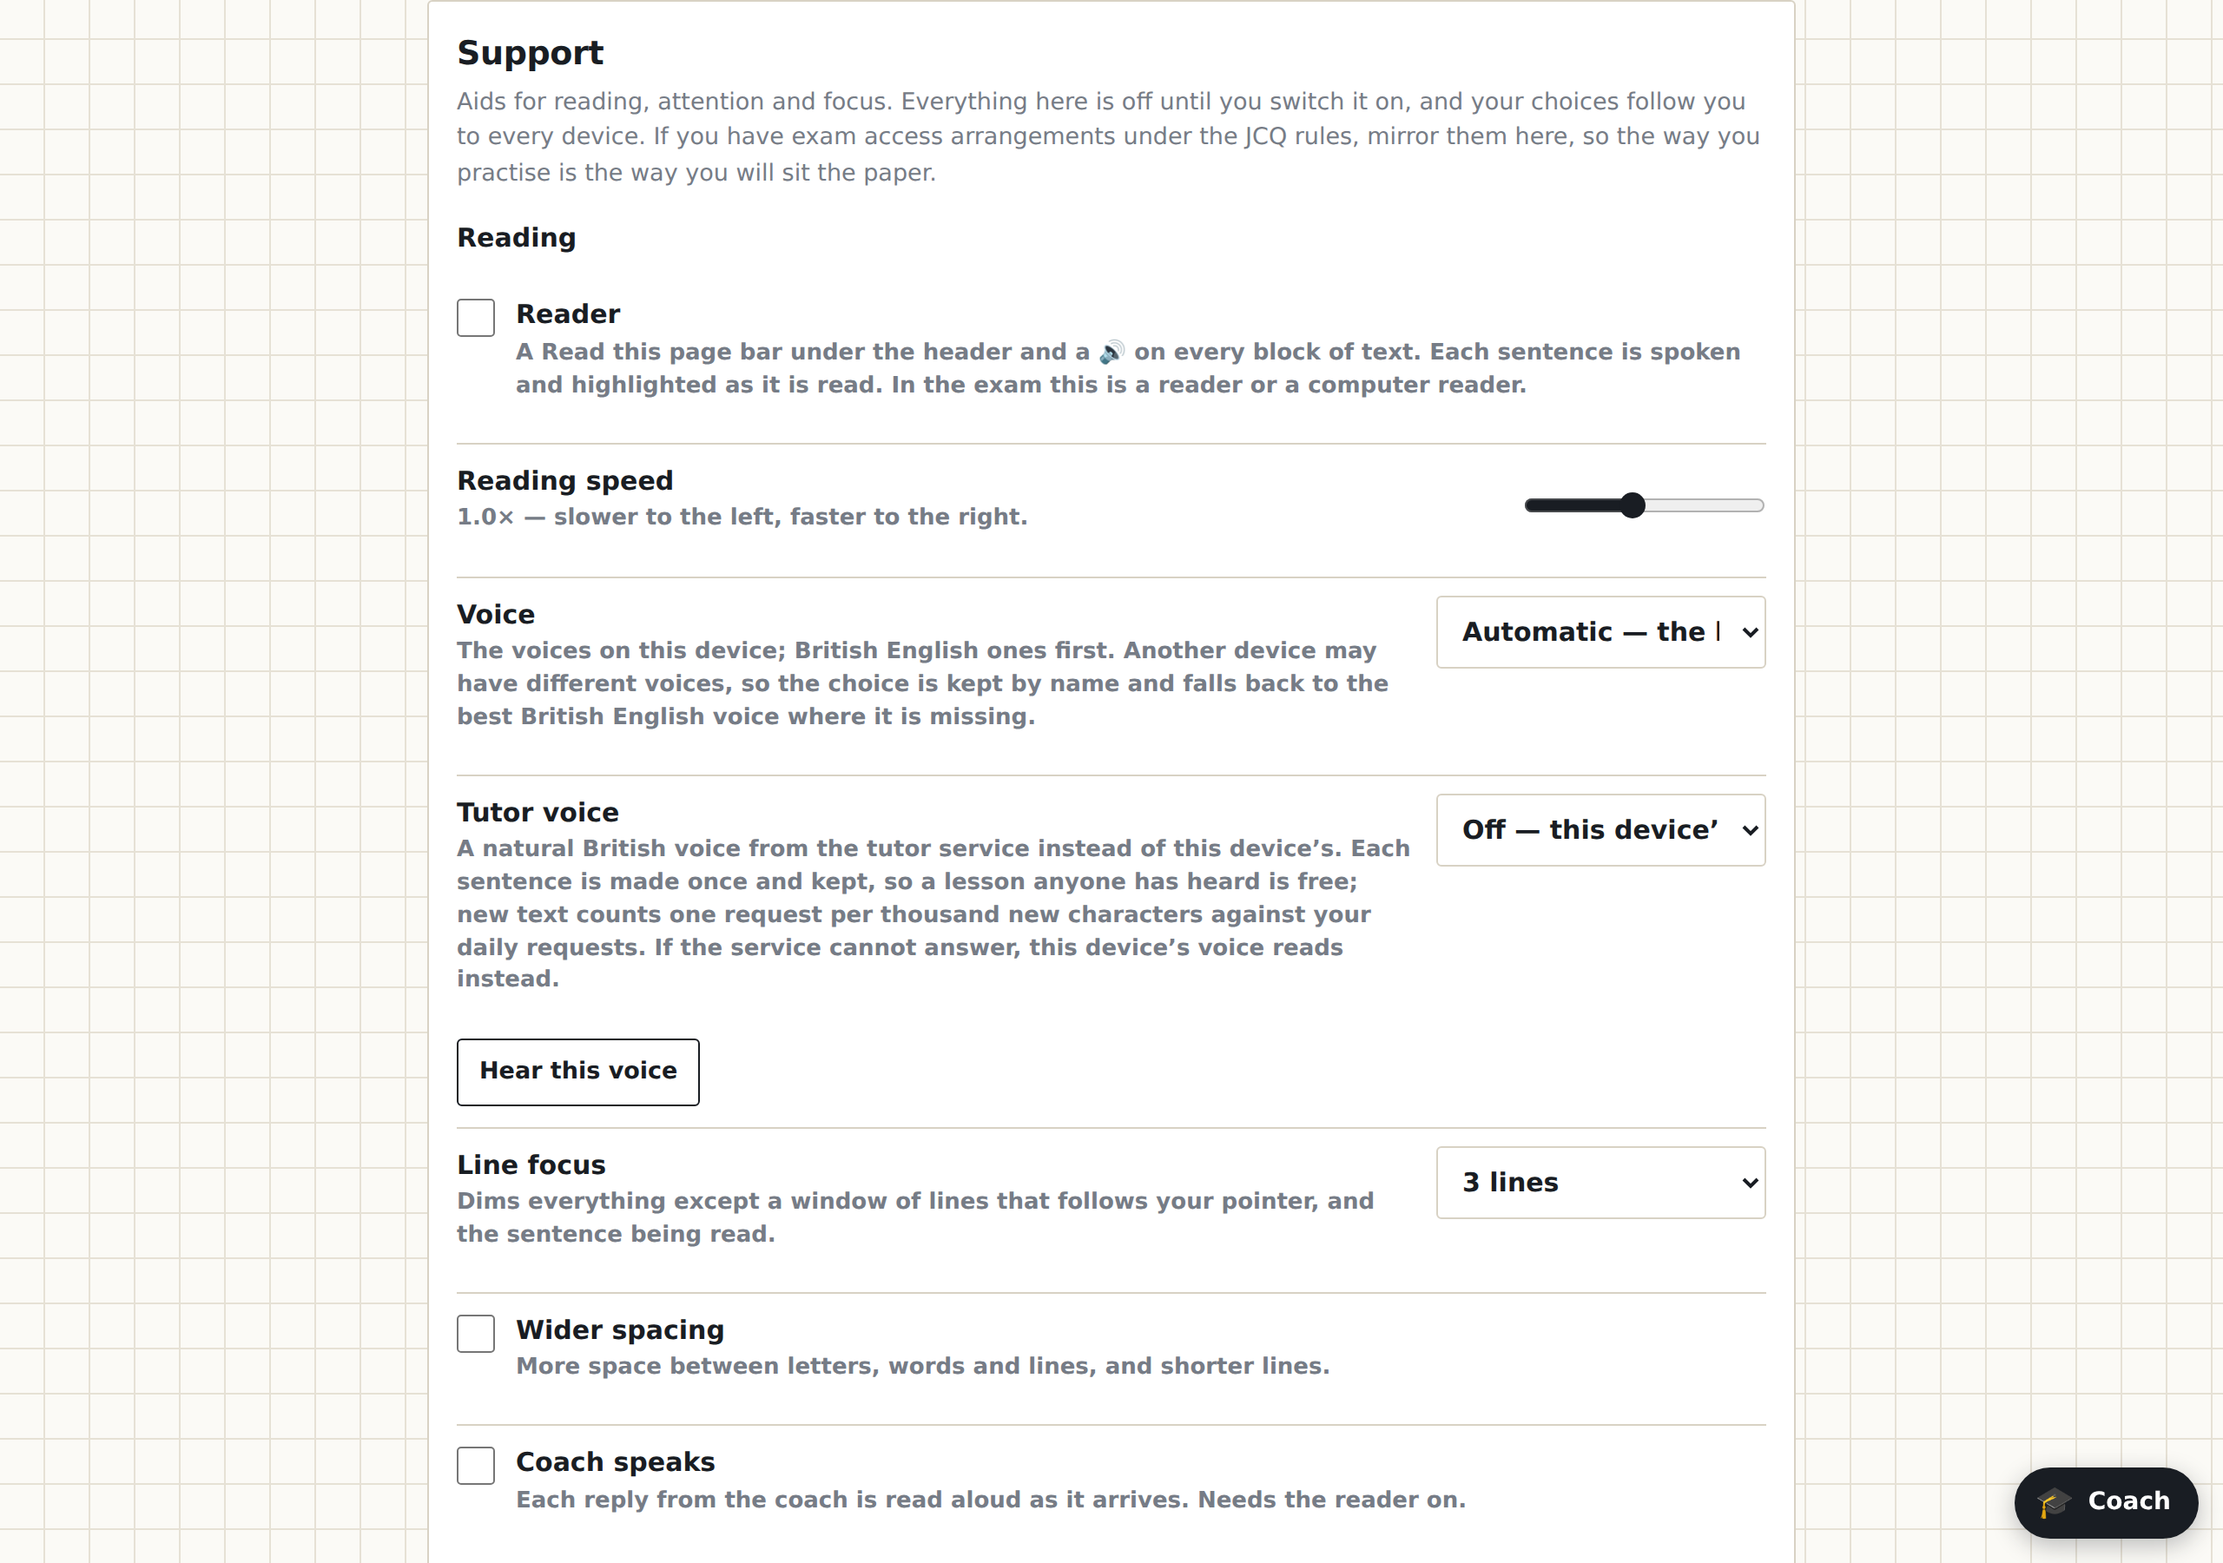
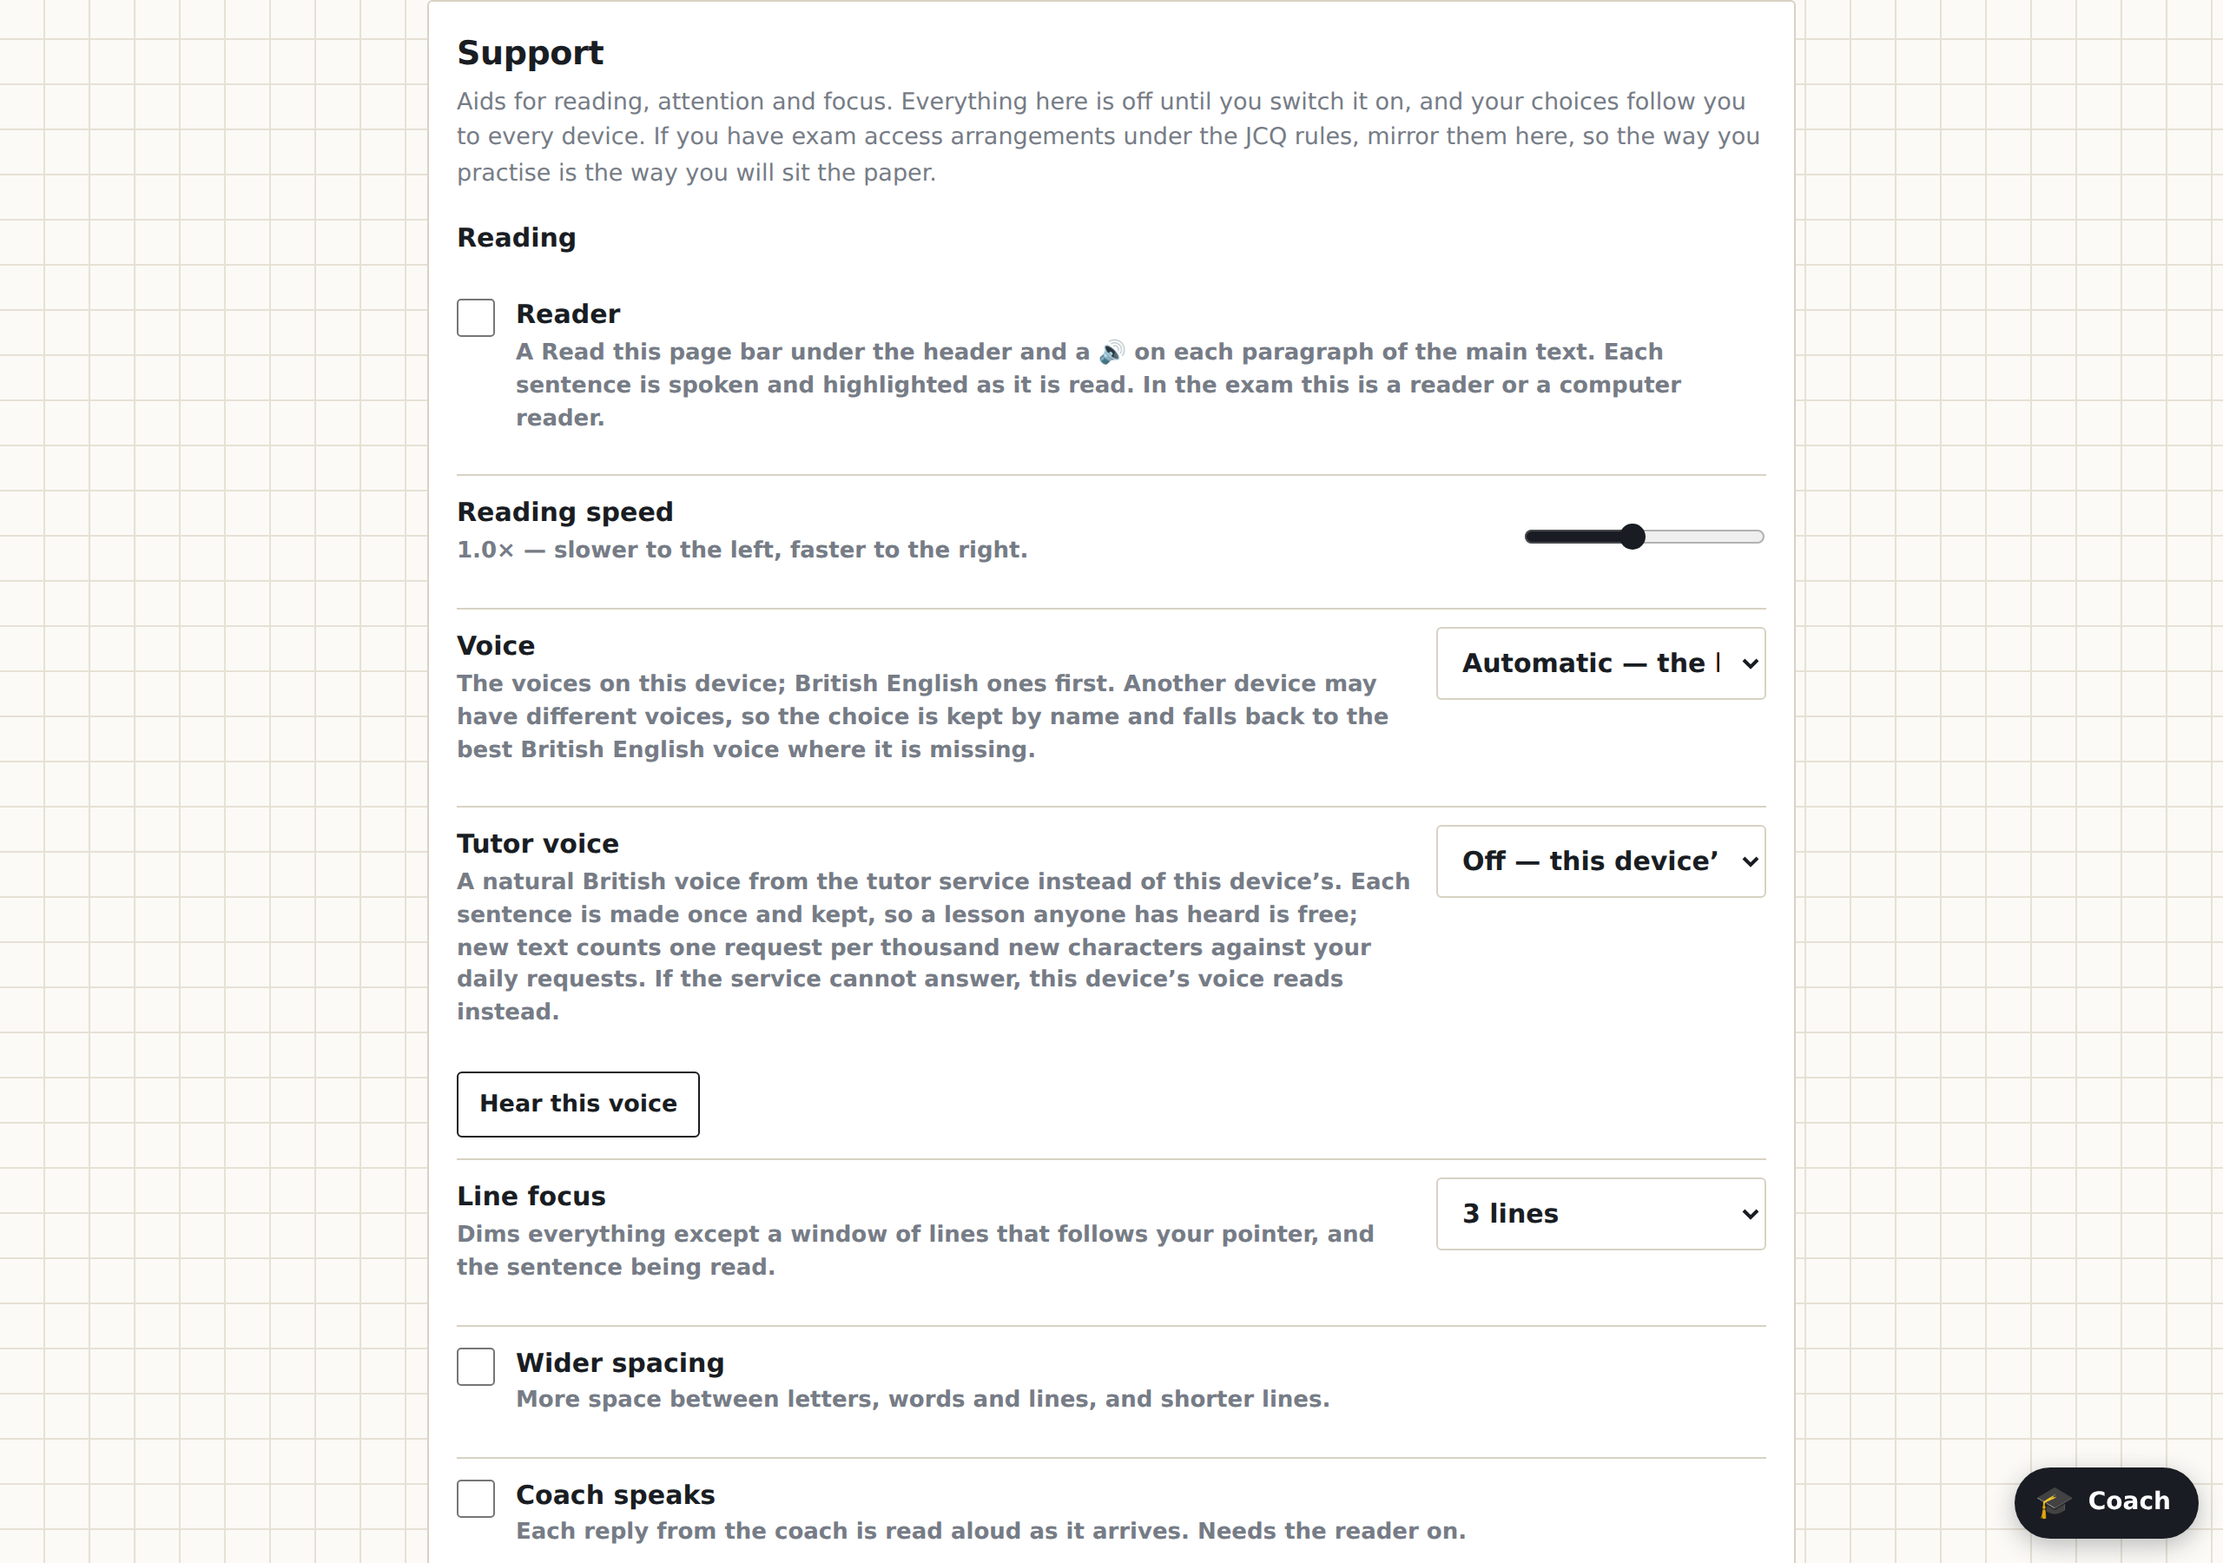
Reader: a speaker only on body paragraphs
The 🔊 buttons now sit only on the main text: not on titles, sub-lines,
captions, the wall or anything shorter than a sentence. Read this page
still reads the page in order.

Claude-Session: https://claude.ai/code/session_01Mh9bnPxQr2jGMgGjiwAVje

diff --git a/src/template.html b/src/template.html
@@ -201,7 +201,10 @@ function pickVoice(){try{if(!speechOk())return null;const vs=speechSynthesis.get
 function readerBlocks(){try{const out=[];const roots=[...document.querySelectorAll('main>section:not(.hide)'),document.getElementById('wall'),document.getElementById('coachPanel')].filter(Boolean);
   for(const r of roots){if(!r.querySelectorAll)continue;for(const el of r.querySelectorAll(READ_SEL)){if(el.closest&&el.closest('svg,.desk,.campusart,.rdb,button,select,textarea,input,.hide,.reader,.chips'))continue;const t=blockText(el);if(t.length<3)continue;if(out.some(x=>x.contains&&x.contains(el)))continue;out.push(el);}}return out;}catch(e){return [];}}
 function blockText(el){return String(el.innerText||el.textContent||'').replace(/🔊/g,'').replace(/\s+/g,' ').trim();}
-function readerDecorate(){if(!S||!sup().reader)return;for(const el of readerBlocks()){try{if(el.querySelector&&el.querySelector(':scope>.rdb'))continue;const b=document.createElement('button');b.className='rdb';b.type='button';b.title='Read this aloud';b.setAttribute('aria-label','Read this aloud');b.textContent='🔊';b.dataset.read='1';el.insertBefore(b,el.firstChild);}catch(e){}}}
+/* a 🔊 only on body text in the centre: no headings, no sub-lines or captions, nothing on the wall, nothing shorter than a sentence */
+const DECORATE_SKIP='h1,h2,h3,h4,.sub,.fine,.prov,.cw,.entry,.formula,.nn,.stitle,.sdetail,.emeta,.nlabel,.bhead,.sign,.plate,label,summary';
+function decorateBlocks(){try{const main=document.querySelector('main');return readerBlocks().filter(el=>{if(!main||!main.contains||!main.contains(el))return false;if(el.matches&&el.matches(DECORATE_SKIP))return false;if(el.closest&&el.closest('.board,.corridor,.roomnav,.qbar,.stations,.chips,.bchips,.ask'))return false;return blockText(el).length>=40;});}catch(e){return [];}}
+function readerDecorate(){if(!S||!sup().reader)return;for(const el of decorateBlocks()){try{if(el.querySelector&&el.querySelector(':scope>.rdb'))continue;const b=document.createElement('button');b.className='rdb';b.type='button';b.title='Read this aloud';b.setAttribute('aria-label','Read this aloud');b.textContent='🔊';b.dataset.read='1';el.insertBefore(b,el.firstChild);}catch(e){}}}
 function readText(text,el){if(!speechOk()&&!tutorVoice())return false;readerStop(false);const sents=splitSentences(String(text||''));if(!sents.length)return false;UI.reader={cur:el||null,queue:sents,i:0,paused:false,speaking:true,words:sents.join(' ').split(/\s+/).length};highlightBlock(el||null);speakNext();renderReader();return true;}
 function speakNext(){const R=UI.reader;if(!R||!R.speaking)return;if(R.i>=R.queue.length){R.speaking=false;highlightSentence(null);logSupport('reader',(R.words||0)/150);if(!readerContinue()){highlightBlock(null);renderReader();}return;}
   const tv=tutorVoice();if(tv){tutorSpeak(R,tv);return;}browserSpeak(R);}
@@ -335,7 +338,7 @@ function renderChunks(){if(view==='campus')renderCampus();if(view==='rooms'&&UI.
 /* ---- the Support panel in the Office ---- */
 function supportPanel(){const sp=sup();const chk=(k,label,desc)=>`<label class="sw"><input type="checkbox" data-sup="${k}" ${sp[k]?'checked':''}><span><b>${label}</b><small>${desc}</small></span></label>`;const sel=(k,label,opts,desc)=>`<label class="sw"><span><b>${label}</b><small>${desc}</small></span><select data-sup="${k}">${opts.map(([v,l])=>`<option value="${v}" ${String(sp[k])===String(v)?'selected':''}>${l}</option>`).join('')}</select></label>`;
   return `<div class="panel" id="supportPanel"><h2>Support</h2><p class="sub">Aids for reading, attention and focus. Everything here is off until you switch it on, and your choices follow you to every device. If you have exam access arrangements under the JCQ rules, mirror them here, so the way you practise is the way you will sit the paper.</p>
-   <h3>Reading</h3>${chk('reader','Reader','A Read this page bar under the header and a 🔊 on every block of text. Each sentence is spoken and highlighted as it is read. In the exam this is a reader or a computer reader.')}
+   <h3>Reading</h3>${chk('reader','Reader','A Read this page bar under the header and a 🔊 on each paragraph of the main text. Each sentence is spoken and highlighted as it is read. In the exam this is a reader or a computer reader.')}
    <label class="sw"><span><b>Reading speed</b><small>${(sp.readerRate||1).toFixed(1)}× — slower to the left, faster to the right.</small></span><input type="range" min="0.7" max="1.4" step="0.1" value="${sp.readerRate||1}" data-sup="readerRate" aria-label="Reading speed"></label>
    ${(()=>{const vs=voiceOptions();const cur=sp.voice||'';const known=!cur||vs.some(v=>v.name===cur);return `<label class="sw"><span><b>Voice</b><small>${vs.length?`The voices on this device; British English ones first. Another device may have different voices, so the choice is kept by name and falls back to the best British English voice where it is missing.`:'This browser has no voices to read with — Chrome, Edge and Safari do.'}</small></span><select data-sup="voice" aria-label="Reading voice"><option value="" ${cur?'':'selected'}>Automatic — the best British English voice here</option>${known?'':`<option value="${esc(cur)}" selected>${esc(cur)} (not on this device)</option>`}${vs.map(v=>`<option value="${esc(v.name)}" ${v.name===cur?'selected':''}>${esc(v.name)}${v.lang?` · ${esc(v.lang)}`:''}</option>`).join('')}</select></label>${(()=>{const g=voiceGuidance();return g?`<p class="fine" style="margin:2px 0 8px">${esc(g)}</p>`:'';})()}<label class="sw"><span><b>Tutor voice</b><small>A natural British voice from the tutor service instead of this device’s. Each sentence is made once and kept, so a lesson anyone has heard is free; new text counts one request per thousand new characters against your daily requests. If the service cannot answer, this device’s voice reads instead.${AUTH_MODE?'':' Needs a signed-in account.'}</small></span><select data-sup="tutorVoice" aria-label="Tutor voice"><option value="" ${sp.tutorVoice?'':'selected'}>Off — this device’s voice</option>${TUTOR_VOICES.map(([v,l])=>`<option value="${v}" ${sp.tutorVoice===v?'selected':''}>${esc(l)}</option>`).join('')}</select></label><button class="act ghost small" id="voiceTry" ${vs.length||sp.tutorVoice?'':'disabled'}>Hear this voice</button>`;})()}
    ${sel('lineFocus','Line focus',[[0,'Off'],[1,'1 line'],[3,'3 lines'],[5,'5 lines']],'Dims everything except a window of lines that follows your pointer, and the sentence being read.')}

diff --git a/scripts/visual-proof.js b/scripts/visual-proof.js
@@ -318,11 +318,11 @@ const server = http.createServer((req, res) => {
   await page.click('#coachClose');
   await page.evaluate(() => { S.setup.support.reader = true; S.setup.support.lineFocus = 3; S.setup.support.spacing = true; applySupport(); renderAll(); });
   await page.click('[data-station="lesson"]'); await page.waitForSelector('#reader #rdPage', { timeout: 5000 }); await page.waitForTimeout(250);
-  must((await page.locator('#v-rooms .rdb').count()) >= 3, 'every block of the lesson has a 🔊');
+  must((await page.locator('#v-rooms .rdb').count()) >= 3 && (await page.locator('#v-rooms h2 .rdb, #v-rooms h3 .rdb, #v-rooms .sub .rdb, #v-rooms .fine .rdb, #wall .rdb').count()) === 0, 'the lesson’s body paragraphs have a 🔊; titles, sub-lines, captions and the wall do not');
   await page.click('#rdPage'); await page.waitForSelector('.rd-cur', { timeout: 5000 }); await page.waitForTimeout(200);
   must((await page.locator('#rdmask').isVisible()) && /Stop/.test(await page.locator('#reader').textContent()) && (await page.locator('body.rd-space').count()) === 1, 'reading: the current block is highlighted, the line-focus window is up, spacing is wider');
   await page.locator('.rd-cur').scrollIntoViewIfNeeded(); await page.waitForTimeout(150);
-  await snap(page, '24-reader-line-focus', 'The reader: Read this page under the header, a 🔊 on every block, the block being read highlighted with its current sentence, a three-line focus window dimming the rest, and wider spacing');
+  await snap(page, '24-reader-line-focus', 'The reader: Read this page under the header, a 🔊 on each body paragraph, the block being read highlighted with its current sentence, a three-line focus window dimming the rest, and wider spacing');
   /* calm mode on the campus */
   await page.evaluate(() => { readerStop(); S.setup.support.reader = false; S.setup.support.spacing = false; S.setup.support.calm = true; applySupport(); UI.room = null; go('campus'); renderCampus(); });
   await page.waitForSelector('#v-campus .campus');

diff --git a/README.md b/README.md
@@ -237,7 +237,7 @@ A building opens its **corridor**: one door per topic under its component sign, 
 
 Everything in the Office's **Support** panel is off until the student switches it on, and the choices travel with their progress. The panel names the JCQ access arrangement each aid mirrors, so a student who will sit the paper with a reader, a scribe, a prompter, rest breaks or extra time practises the same way every day — the "normal way of working" those arrangements require — and **Progress** shows what was used each week as evidence.
 
-- **Reader.** A *Read this page* bar under the header and a 🔊 on every block of text. Each sentence is spoken by the browser's own voice (a British English voice is preferred) and highlighted inside its block as it is read; speed from 0.7× to 1.4×; the **Voice** list in the Support panel offers the device's own voices, British English first, with *Hear this voice* to try one; the choice is kept by name and falls back to the best British English voice on a device that lacks it. *Line focus* dims everything except a window of one, three or five lines that follows the pointer or the reading; *Wider spacing* applies the WCAG text-spacing values; *Coach speaks* reads each reply aloud.
+- **Reader.** A *Read this page* bar under the header and a 🔊 on each body paragraph (not on titles, sub-lines, captions or the wall). Each sentence is spoken by the browser's own voice (a British English voice is preferred) and highlighted inside its block as it is read; speed from 0.7× to 1.4×; the **Voice** list in the Support panel offers the device's own voices, British English first, with *Hear this voice* to try one; the choice is kept by name and falls back to the best British English voice on a device that lacks it. *Line focus* dims everything except a window of one, three or five lines that follows the pointer or the reading; *Wider spacing* applies the WCAG text-spacing values; *Coach speaks* reads each reply aloud.
 - **Tutor voice.** Beside the device voices, the Support panel offers a natural British voice from the tutor service, Athena or Helios (Deepgram Aura on Workers AI). The reader fetches each sentence from `POST /tts` and plays it in order with the same highlight, the next sentence fetched while one plays, speed 0.7× to 1.4× with pitch kept. The Worker keeps every sentence's audio in R2 under the model, the voice and the sentence's hash, so a lesson is synthesised once for everyone who reads it; a hit is free, and fresh text counts one request per thousand characters against the daily cap. Any fault — the service down, no AI binding, the cap reached, an iPhone refusing to play without a tap — falls back to the device voice for that sentence and the bar says so; reading never stops. The text sent is the sentence on the page with only a small table of symbols swapped (×, ÷, →, ≥, ≤, °). A device-aware line under the voice list says where the best free voices are: Edge on Windows, the enhanced voices in Accessibility settings on a Mac or iPhone.
 - **Dictation.** A 🎤 beside the coach box, the essay box, the marking box and desk notes. Chrome, Edge and Safari recognise speech themselves (the panel says where the audio goes); a browser that cannot, such as Firefox, records instead and the tutor service transcribes the recording with Whisper on Workers AI (`POST /speech`, one call against the daily cap, nothing stored). The words land in the box to edit before sending; nothing is recorded until the mic is pressed.
 - **The coach floats on every page.** The button at the bottom right opens a panel that says what the coach can see — the room, the station, the question on screen with hints used and minutes on it, the mistakes logged here, today's step — and the prompt carries exactly that (`floatingCoachPrompt` in `src/gen.js`: the spec block in a room, the student's map elsewhere). Replies stay Socratic and can name one door, which renders as an Open button. History is kept per place; the room's Coach station opens the panel and keeps teaching mode; Escape closes it; on a phone it is a bottom sheet.

diff --git a/docs/proof/README.md b/docs/proof/README.md
@@ -142,7 +142,7 @@ The coach floats beside every page: opened from the button at the bottom right, 
 
 ## 24-reader-line-focus
 
-The reader: Read this page under the header, a 🔊 on every block, the block being read highlighted with its current sentence, a three-line focus window dimming the rest, and wider spacing
+The reader: Read this page under the header, a 🔊 on each body paragraph, the block being read highlighted with its current sentence, a three-line focus window dimming the rest, and wider spacing
 
 ![24-reader-line-focus](24-reader-line-focus.png)
 
